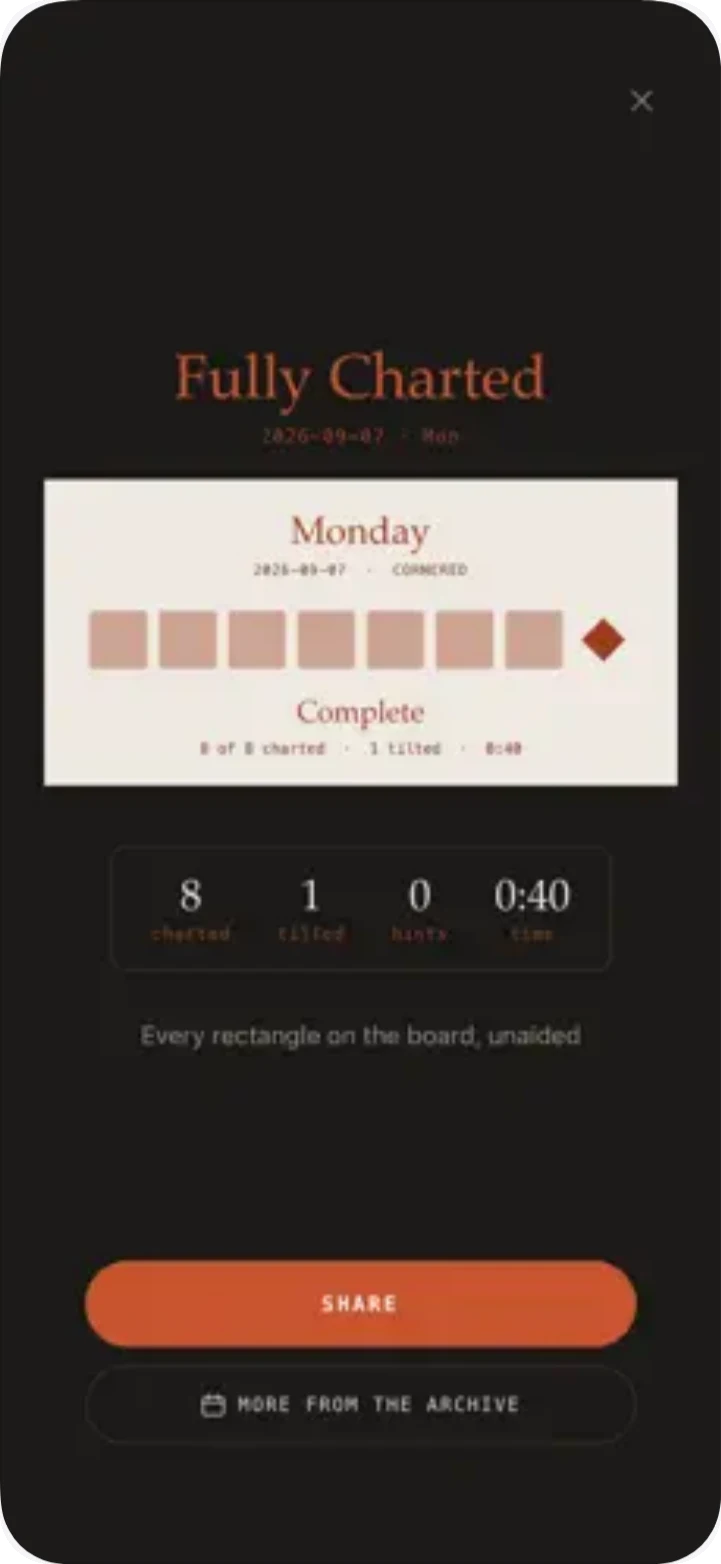
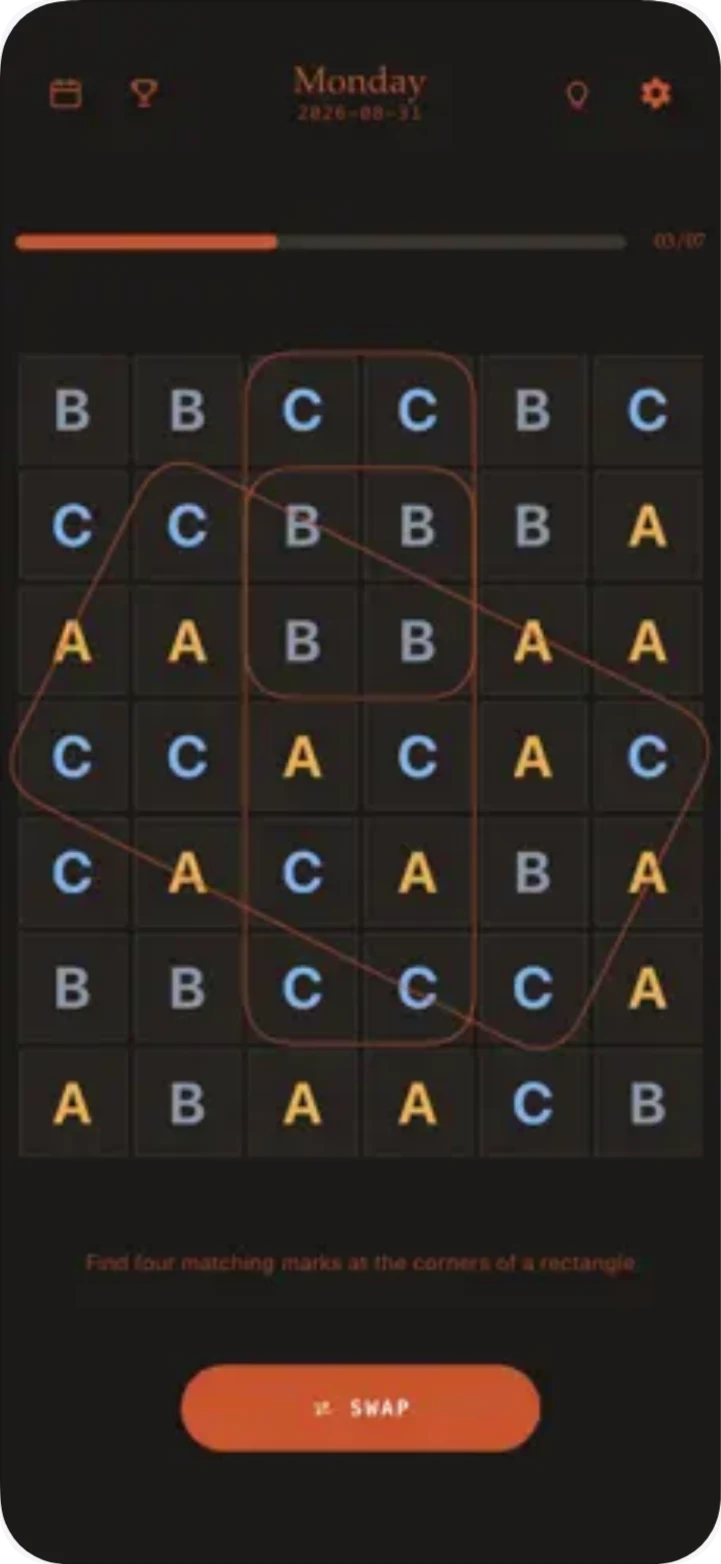
Cornered card: use a board with found rectangles circled

diff --git a/src/test/Projects.test.tsx b/src/test/Projects.test.tsx
@@ -40,7 +40,7 @@ describe('Projects', () => {
     expect(screen.getByRole('heading', { name: 'Cornered' })).toBeInTheDocument()
     expect(screen.getByText('A daily puzzle game for iPhone and Android')).toBeInTheDocument()
     expect(screen.getByText(/One new board a day/)).toBeInTheDocument()
-    expect(screen.getByAltText('Cornered results screen for a fully solved Monday board')).toBeInTheDocument()
+    expect(screen.getByAltText('Cornered Monday board with three found rectangles circled, one of them tilted')).toBeInTheDocument()
     expect(screen.getByText('Live on iOS and Android')).toBeInTheDocument()
 
     expect(screen.getByRole('link', { name: /App Store/ })).toHaveAttribute('href', 'https://apps.apple.com/app/id6804104582')

diff --git a/src/components/Projects.tsx b/src/components/Projects.tsx
@@ -33,7 +33,7 @@ const projects: Project[] = [
       'Designed to be calm. No ads, no account and it works offline. Swap the colors or play with card suits or chess pieces instead of dots, and share your solve without spoiling it.'
     ],
     screenshots: [
-      { src: corneredSolved, alt: 'Cornered results screen for a fully solved Monday board' }
+      { src: corneredSolved, alt: 'Cornered Monday board with three found rectangles circled, one of them tilted' }
     ],
     technologies: ['React Native', 'Expo', 'JavaScript', 'Cloudflare Workers', 'Pulumi'],
     link: 'https://apps.apple.com/app/id6804104582',
